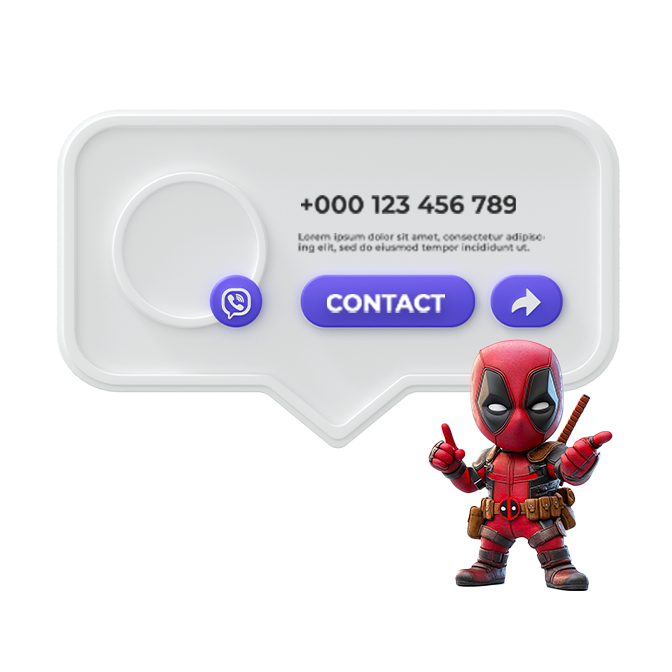
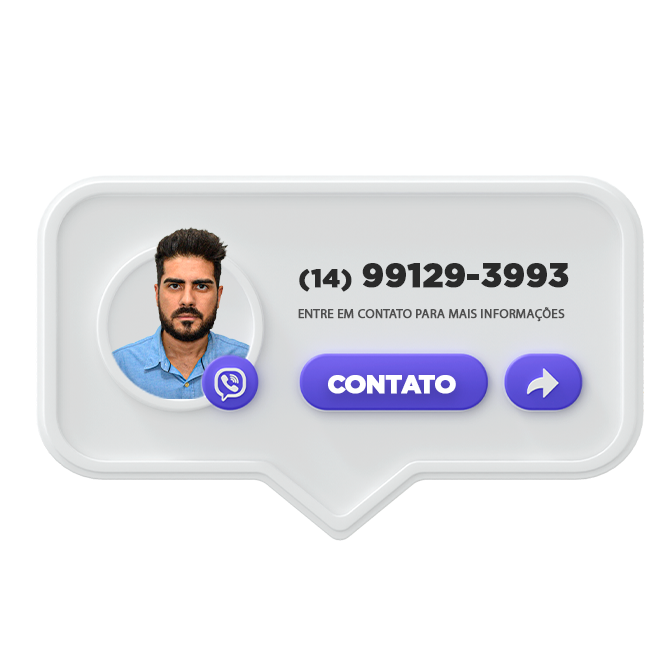
Pequenos ajustes

diff --git a/src/components/About.tsx b/src/components/About.tsx
@@ -1,34 +1,25 @@
-import { ArrowClockwise, ChatCircle, Heart } from "@phosphor-icons/react"
 import './Tweet.css'
 import { Slider } from "./Slider"
+import avatarempresa from '../assets/Ativo 2.png'
+import dono from '../assets/Felipe-Avatar.jpg'
 
 export function About() {
   return (
     <div className='tweet'>
-      <img src="https://openseauserdata.com/files/4c7b1857e28506d0097052584355f4f3.png" alt="" />
+      <img src={avatarempresa} alt="" />
 
       <div className='tweet-content'>
         <div className='tweet-content-header'>
           <strong>Felipe Neneu</strong>
           <span>@Cto</span>
         </div>
-
-        <Slider />
-
-        <div className='tweet-content-footer'>
-          <button type='button'>
-            <ChatCircle />
-            20
-          </button>
-          <button type='button'>
-            <ArrowClockwise />
-            20
-          </button>
-          <button type='button'>
-            <Heart />
-            20
-          </button>
+        <div className='nosite'>
+          <img className='dono' src={dono} alt="" />
+          <h2>Quem sou eu?</h2>
+          <p>🎨 Sou designer desde os 12 anos, quando transformei meu hobby em paixão ao criar sites de animes e aprender HTML e CSS. Com o tempo, desenvolvi minhas habilidades em softwares como Photoshop e Illustrator,
+            especializando-me em Identidade Visual, criação de flyers, posts para Instagram 📱 e motion design para reels 🎥.</p>
         </div>
+        <Slider />
       </div>
     </div>
   )

diff --git a/src/components/Tweet.css b/src/components/Tweet.css
@@ -13,6 +13,11 @@
   border-radius: 100%;
 }
 
+.tweet .dono {
+  border-radius: 0%;
+  width: 100%;
+  height: auto;
+}
 .tweet .post {
   width: 100%;
   height: 100%;
@@ -74,6 +79,9 @@
   color: var(--twitter-blue);
   transform: scale(105%);
 }
+.tweet .nosite {
+  display: none;
+}
 @media (max-width: 780px) {
   .tweet .tweet-content h2 {
     color: var(--twitter-blue);
@@ -90,4 +98,14 @@
     border-bottom: 1px solid #ebeef0;
     text-decoration: none;
   }
+.tweet .nosite {
+  padding-top: 10%;
+  display: flex;
+  flex-direction: column;
+  gap: 1rem;
+}
+
+.tweet .nosite .dono {
+  border-radius: 10%;
+}
 }

diff --git a/src/layout/Default.css b/src/layout/Default.css
@@ -15,5 +15,6 @@
 @media (max-width: 780px) {
   .layout {
     grid-template-columns: 80px 1fr;
+    max-width: 100vh;
   }
 }
